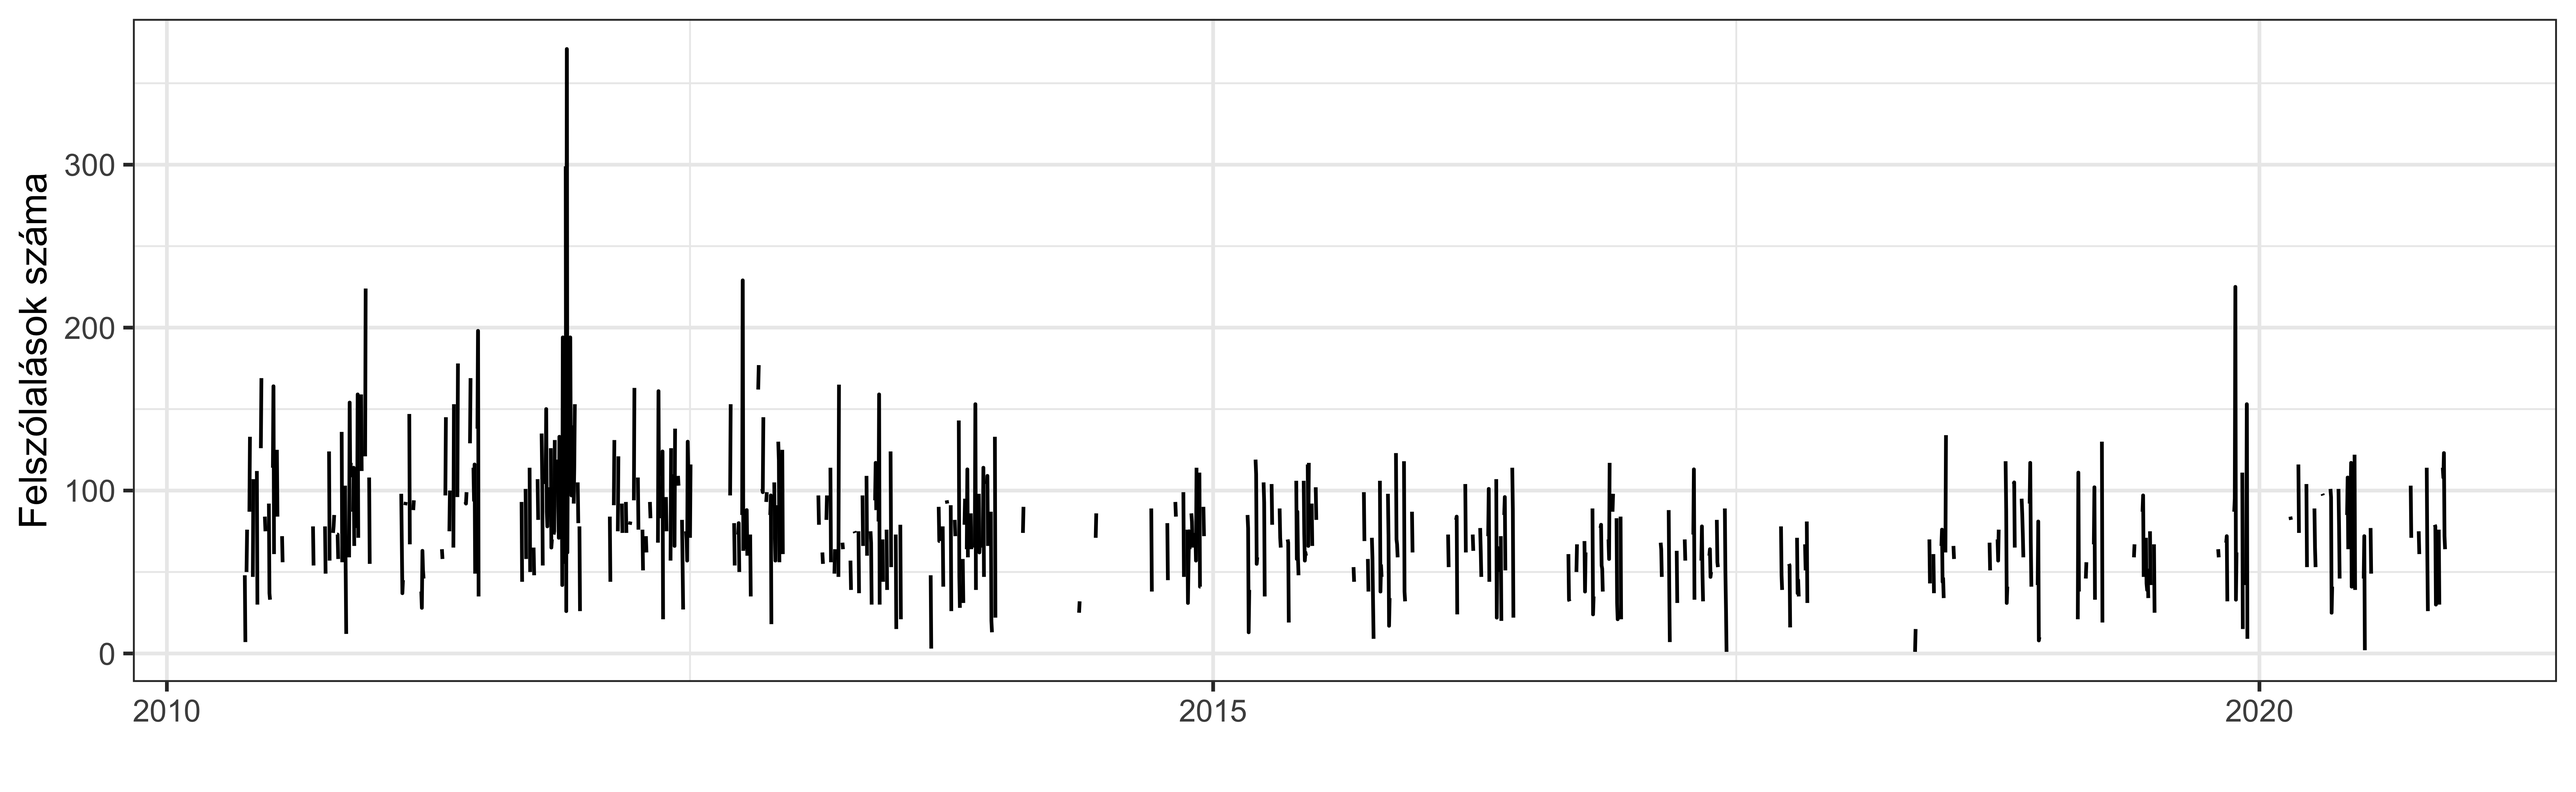
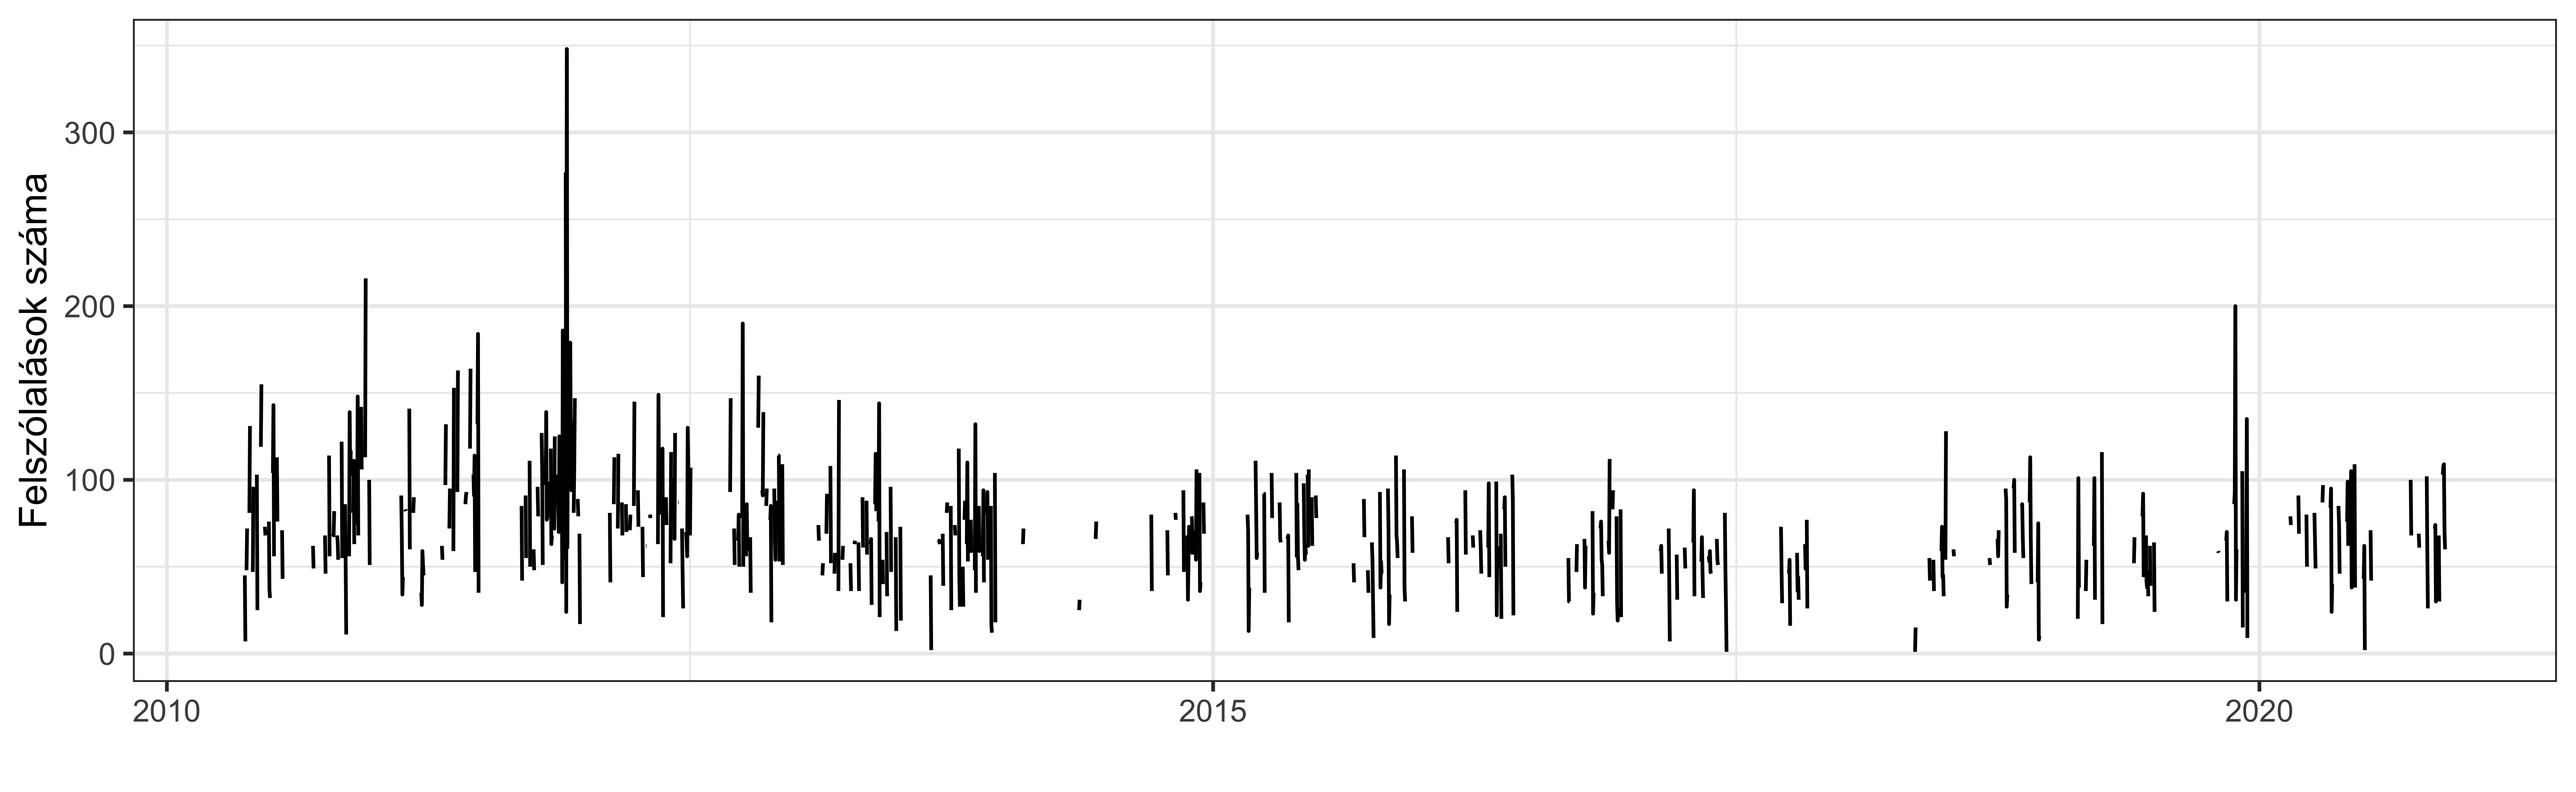
finalize figures

diff --git a/code/plots/plot_nepszava.py b/code/plots/plot_nepszava.py
@@ -11,33 +11,39 @@ sys.path.append("code/plots")
 
 from plot_helper_functions import *
 
-df = execute_formating().loc[lambda x: x["site"].isin(["24.hu", "atv.hu", "888.hu"])]
-figname = "slant_estimates/atv_case.png"
+df = execute_formating().loc[
+    lambda x: x["site"].isin(["24.hu", "nepszava.hu", "888.hu"])
+]
+figname = "slant_estimates/nepszava.png"
 
 
 plt.figure(figsize=(10, 7))
 sns.set_theme(style="whitegrid")
-colors = ["#474755", "#e01164", "#f8343c"]
+colors = ["#474755", "#e01164", "#167EFC"]
+
+
+#"#167EFC" nepszava
+#"#e01164" nyolcs
 sns.set_palette(sns.color_palette(colors))
 
 sns.lineplot(x="date", y="slant", hue="site", style="variable", data=df)
 
-nyolcas = mpatches.Patch(color=colors[0], label="24.hu")
-huszonnegy = mpatches.Patch(color=colors[1], label="888.hu")
-atv = mpatches.Patch(color=colors[2], label="atv.hu")
+nepszava = mpatches.Patch(color=colors[0], label="24.hu")
+huszonnegy = mpatches.Patch(color=colors[2], label="nepszava.hu")
+nyolcas = mpatches.Patch(color=colors[1], label="888.hu")
 
 plt.legend(
-    handles=[huszonnegy, nyolcas, atv],
+    handles=[nyolcas, nepszava, huszonnegy],
     loc=0,
     borderaxespad=1.0,
     frameon=False,
     title=False,
     numpoints=3,
 )
-plt.title("Online hírportálok torzítottsága:\n atv.hu", size=20, y=1.03)
+plt.title("Online hírportálok torzítottsága: Népszava", size=20, y=1.03)
 plt.ylabel("Becsült torzítottság")
 plt.xlabel(None)
 plt.ylim(0.4, 0.65)
-plt.xlim(dt.datetime(2010, 1, 1), dt.datetime(2022, 4, 1))
+plt.xlim(dt.datetime(2010, 1, 1), dt.datetime(2021, 1, 1))
 
 plt.savefig("figures/" + figname, dpi=1000)

diff --git a/code/plots/plot_origo.py b/code/plots/plot_origo.py
@@ -11,37 +11,33 @@ sys.path.append("code/plots")
 
 from plot_helper_functions import *
 
-df = execute_formating().loc[
-    lambda x: x["site"].isin(["index.hu", "origo.hu", "888.hu"])
-]
-figname = "slant_estimates/origo_case.png"
-
+df = execute_formating().loc[lambda x: x["site"].isin(["24.hu", "origo.hu", "888.hu"])]
+figname = "slant_estimates/origo.png"
 
 plt.figure(figsize=(10, 7))
 sns.set_theme(style="whitegrid")
-colors = ["#e01164", "#f4941c", "#011593"]
+colors = ["#474755", "#e01164", "#011593"]
 sns.set_palette(sns.color_palette(colors))
 
 sns.lineplot(x="date", y="slant", hue="site", style="variable", data=df)
 
-nyolcas = mpatches.Patch(color=colors[0], label="888.hu")
-index = mpatches.Patch(color=colors[1], label="index.hu")
+nyolcas = mpatches.Patch(color=colors[0], label="24.hu")
+huszonnegy = mpatches.Patch(color=colors[1], label="888.hu")
 origo = mpatches.Patch(color=colors[2], label="origo.hu")
 
 plt.legend(
-    handles=[nyolcas, index, origo],
+    handles=[huszonnegy, nyolcas, origo],
     loc=0,
     borderaxespad=1.0,
     frameon=False,
     title=False,
     numpoints=3,
-    labels=["888.hu", "index.hu", "origo.hu"],
 )
-plt.title("Online hírportálok torzítottsága:\n az origo.hu esete", size=20, y=1.03)
+plt.title("Online hírportálok torzítottsága: origo.hu", size=20, y=1.03)
 plt.ylabel("Becsült torzítottság")
 plt.xlabel(None)
 plt.ylim(0.4, 0.65)
-plt.xlim(dt.datetime(2010, 1, 1), dt.datetime(2022, 1, 1))
+plt.xlim(dt.datetime(2010, 1, 1), dt.datetime(2021, 1, 1))
 
 # change of editor
 plt.axvline(dt.datetime(2014, 6, 2), color="#000000")

diff --git a/code/plots/plot_atv.py b/code/plots/plot_atv.py
@@ -11,33 +11,33 @@ sys.path.append("code/plots")
 
 from plot_helper_functions import *
 
-df = execute_formating().loc[lambda x: x["site"].isin(["index.hu", "168ora.hu", "888.hu"])]
-figname = "slant_estimates/168ora_case_index_control.png"
+df = execute_formating().loc[lambda x: x["site"].isin(["24.hu", "atv.hu", "888.hu"])]
+figname = "slant_estimates/atv.png"
 
 
 plt.figure(figsize=(10, 7))
 sns.set_theme(style="whitegrid")
-colors = ["#d0040c","#e01164", "#f4941c"]
+colors = ["#474755", "#e01164", "#f8343c"]
 sns.set_palette(sns.color_palette(colors))
 
 sns.lineplot(x="date", y="slant", hue="site", style="variable", data=df)
 
-nyolcas = mpatches.Patch(color=colors[0], label="168ora.hu")
+nyolcas = mpatches.Patch(color=colors[0], label="24.hu")
 huszonnegy = mpatches.Patch(color=colors[1], label="888.hu")
-szazhatvannyolc = mpatches.Patch(color=colors[2], label="index.hu")
+atv = mpatches.Patch(color=colors[2], label="atv.hu")
 
 plt.legend(
-    handles=[huszonnegy, nyolcas, szazhatvannyolc],
+    handles=[huszonnegy, nyolcas, atv],
     loc=0,
     borderaxespad=1.0,
     frameon=False,
     title=False,
     numpoints=3,
 )
-plt.title("Online hírportálok torzítottsága:\n 168ora.hu", size=20, y=1.03)
+plt.title("Online hírportálok torzítottsága: atv.hu", size=20, y=1.03)
 plt.ylabel("Becsült torzítottság")
 plt.xlabel(None)
 plt.ylim(0.4, 0.65)
-plt.xlim(dt.datetime(2010, 1, 1), dt.datetime(2022, 4, 1))
+plt.xlim(dt.datetime(2010, 1, 1), dt.datetime(2021, 1, 1))
 
 plt.savefig("figures/" + figname, dpi=1000)

diff --git a/code/plots/plot_controls.py b/code/plots/plot_controls.py
@@ -1,0 +1,52 @@
+import datetime as dt
+import sys
+import warnings
+
+import matplotlib.patches as mpatches
+import matplotlib.pyplot as plt
+import seaborn as sns
+
+warnings.filterwarnings("ignore")
+sys.path.append("code/plots")
+
+from plot_helper_functions import *
+
+df = execute_formating().loc[
+    lambda x: x["site"].isin(["24.hu", "index.hu", "888.hu", "444.hu"])
+]
+figname = "slant_estimates/controls.png"
+
+
+plt.figure(figsize=(10, 7))
+sns.set_theme(style="whitegrid")
+colors = {
+    "24.hu": "#474755",
+    "444.hu": "#ffec24",
+    "888.hu": "#e01164",
+    "index.hu": "#f89424",
+}
+
+sns.set_palette(sns.color_palette(colors.values()))
+
+sns.lineplot(x="date", y="slant", hue="site", style="variable", data=df)
+
+_24hu = mpatches.Patch(color=colors["24.hu"], label="24.hu")
+index = mpatches.Patch(color=colors["index.hu"], label="index.hu")
+_444hu = mpatches.Patch(color=colors["444.hu"], label="444.hu")
+_888hu = mpatches.Patch(color=colors["888.hu"], label="888.hu")
+
+plt.legend(
+    handles=[_888hu, _24hu, index, _444hu],
+    loc=0,
+    borderaxespad=1.0,
+    frameon=False,
+    title=False,
+    numpoints=3,
+)
+plt.title("Kontroll online hírportálok torzítottsága", size=20, y=1.03)
+plt.ylabel("Becsült torzítottság")
+plt.xlabel(None)
+plt.ylim(0.4, 0.65)
+plt.xlim(dt.datetime(2010, 1, 1), dt.datetime(2021, 1, 1))
+
+plt.savefig("figures/" + figname, dpi=1000)

diff --git a/code/plots/plot_helper_functions.py b/code/plots/plot_helper_functions.py
@@ -1,6 +1,7 @@
 import numpy as np
 import pandas as pd
 
+
 def format_data(df):
     return (
         df.assign(
@@ -18,6 +19,7 @@ def format_data(df):
                 x["site"],
             )
         )
+        .loc[lambda x: ~((x["date"] < "2013-09-01") & (x["site"] == "nepszava.hu"))]
         .filter(["site", "date", "slant", "se"])
         .sort_values(by=["site", "date"])
     )
@@ -38,7 +40,7 @@ def detrend_time_series(df):
     )
 
 
-def smooth_time_series(df, alpha=0.4):
+def smooth_time_series(df, alpha=0.35):
     return df.assign(slant=df.groupby("site")["slant"].ewm(alpha=alpha).mean().values)
 
 
@@ -73,8 +75,8 @@ def execute_formating():
 
     df = (
         df.pipe(format_data)
-        #.pipe(detrend_time_series)
-        #.pipe(smooth_time_series)
+        # .pipe(detrend_time_series)
+        .pipe(smooth_time_series)
         .assign(se=lambda x: np.where(x["se"] > 0.01, 0.01, x["se"]))
         .pipe(melt_data_for_figure)
     )

diff --git a/code/plots/plot_magyar_nemzet.py b/code/plots/plot_magyar_nemzet.py
@@ -14,7 +14,7 @@ from plot_helper_functions import *
 df = execute_formating().loc[
     lambda x: x["site"].isin(["24.hu", "mno.hu", "888.hu", "mno.hu/magyaridok.hu"])
 ]
-figname = "slant_estimates/magyar_nemzet_case_24hu_control.png"
+figname = "slant_estimates/magyar_nemzet.png"
 
 plt.figure(figsize=(10, 7))
 sns.set_theme(style="whitegrid")
@@ -36,11 +36,11 @@ plt.legend(
     title=False,
     numpoints=3,
 )
-plt.title("Online hírportálok torzítottsága:\n a Magyar Nemzet esete", size=20, y=1.03)
+plt.title("Online hírportálok torzítottsága: Magyar Nemzet", size=20, y=1.03)
 plt.ylabel("Becsült torzítottság")
 plt.xlabel(None)
 plt.ylim(0.4, 0.65)
-plt.xlim(dt.datetime(2010, 1, 1), dt.datetime(2022, 1, 1))
+plt.xlim(dt.datetime(2010, 1, 1), dt.datetime(2021, 1, 1))
 
 # G nap
 plt.axvline(dt.datetime(2015, 2, 6), color="#000000")

diff --git a/code/plots/plot_party_slant.py b/code/plots/plot_party_slant.py
@@ -42,7 +42,7 @@ sns.set_palette(sns.color_palette(colors))
 sns.lineplot(x="date", y="value", hue="side", style="variable", data=df)
 plt.ylabel("Becsült torzítottság")
 plt.ylim(0.25, 0.75)
-plt.xlim(dt.datetime(2010, 1, 1), dt.datetime(2022, 1, 1))
+plt.xlim(dt.datetime(2010, 1, 1), dt.datetime(2021, 1, 1))
 plt.title(
     "Kormánypárti és ellenzéki képviselők\nfelszólalásainak becsült torzítottsága",
     size=20,
